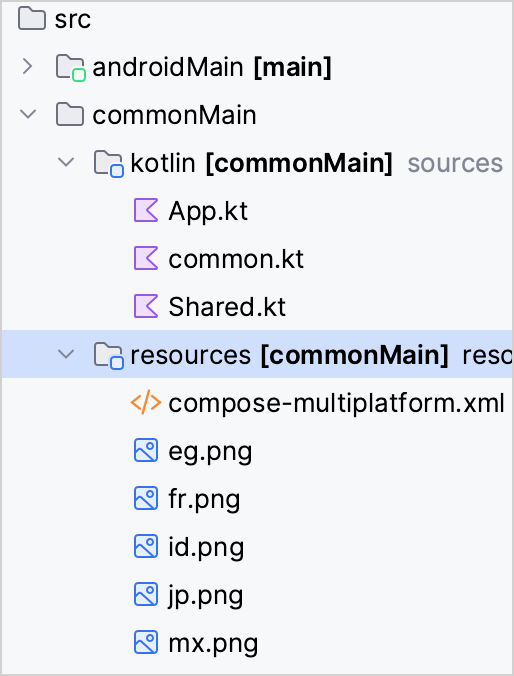
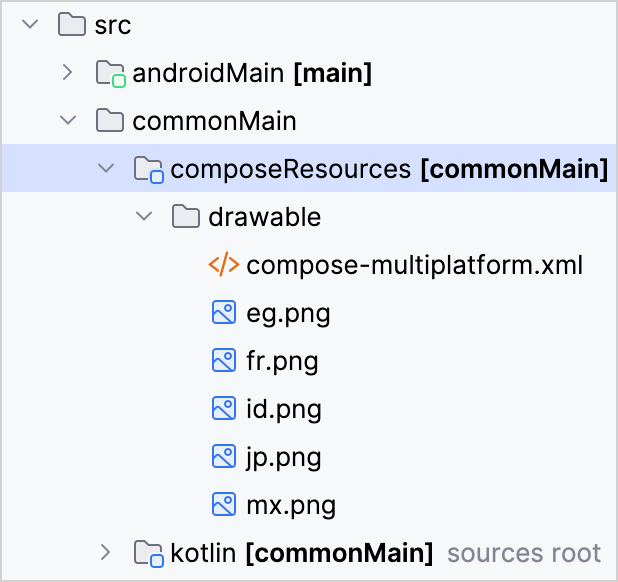
update: new resources API changes (#81)

diff --git a/topics/compose/compose-images-resources.md b/topics/compose/compose-images-resources.md
@@ -1,11 +1,7 @@
 [//]: # (title: Images and resources)
 
-> This page describes the new revamped version of the resource library available since Compose Multiplatform 1.6.0-beta01.
-> 
-{type="note"}
-
-Compose Multiplatform provides a special library and a Gradle plugin support for accessing resources in common code
-across all supported platforms. Resources are static content, such as images, fonts, and strings, that you can use from
+Compose Multiplatform provides a special library and Gradle plugin support for accessing resources in common code
+across all supported platforms. Resources are static content, such as images, fonts, and strings, which you can use from
 your application.
 
 > The library is [Experimental](supported-platforms.md#core-kotlin-multiplatform-technology-stability-levels).
@@ -15,8 +11,8 @@ your application.
 
 When working with resources in Compose Multiplatform, consider the current conditions:
 
-* Almost all resources are read synchronously in the caller thread. The only exceptions are raw files,
-  plus all the resources on the JS platform which are read asynchronously.
+* Almost all resources are read synchronously in the caller thread. The only exceptions are raw files
+  and all of the resources on the JS platform that are read asynchronously.
 * Reading big raw files, like long videos, as a stream is not supported yet. Use separate files on the user device and
   read them with the file system API, for example, the [kotlinx-io](https://github.com/Kotlin/kotlinx-io) library.
 * Multimodule projects are not supported yet. The JetBrains team is working on adding this functionality in future releases.
@@ -49,7 +45,7 @@ To access resources in your multiplatform projects:
 
    ![Compose resources project structure](compose-resources-structure.png){width=250}
 
-3. Organize the `composeResources` directory structure following these rules:
+3. Organize the `composeResources` directory structure according to these rules:
 
    * Images should be in the `drawable` directory.
    * Fonts should be in the `font` directory.
@@ -59,20 +55,20 @@ To access resources in your multiplatform projects:
 ## Qualifiers
 
 Sometimes, the same resource should be presented in different ways depending on the environment, such as locale,
-screen density, or an interface theme. For example, you might need to localize texts for different languages or adjust
+screen density, or interface theme. For example, you might need to localize texts for different languages or adjust
 images for the dark theme. For that, the library provides special qualifiers.
 
 All resource types (except for raw files in the `files` directory) support qualifiers. Apply qualifiers to directory
-names using a dash:
+names using a hyphen:
 
 ![Qualifiers in compose resources](compose-resources-qualifiers.png){width=250}
 
-The library supports (in the order of priority) [language](#language-and-regional-qualifiers), [theme](#theme-qualifier),
-and [density](#density-qualifier) qualifiers.
+The library supports (in the order of priority) the following qualifiers: [language](#language-and-regional-qualifiers),
+[theme](#theme-qualifier), and [density](#density-qualifier).
 
 * Different types of qualifiers can be applied together. For example, "drawable-en-rUS-mdpi-dark" is an image for the
   English language in the United States region, suitable for 160 DPI screens in the dark theme.
-* If a resource with the requested qualifier doesn't exist, a default resource without a qualifier is used instead.
+* If a resource with the requested qualifier doesn't exist, the default resource without a qualifier is used instead.
 
 ### Language and regional qualifiers
 
@@ -100,16 +96,16 @@ You can use the following density qualifiers:
 * "xxhdpi" − 480 DPI, 3x density
 * "xxxhdpi" − 640dpi, 4x density
 
-The resource is selected depending on a screen density defined in the system.
+The resource is selected depending on the screen density defined in the system.
 
 ## Resource usage
 
-After importing a project, a special `Res` class that provides access to resources is generated.
+After importing a project, a special `Res` class is generated which provides access to resources.
 To manually generate the `Res` class, run the `generateComposeResClass` Gradle task.
 
 ### Images
 
-You can access drawable resources as simple images, rasterized images, and XML vectors:
+You can access drawable resources as simple images, rasterized images, or XML vectors:
 
 * To access drawable resources as `Painter` images, use the `painterResource()` function:
 
@@ -117,11 +113,11 @@ You can access drawable resources as simple images, rasterized images, and XML v
   @Composable
   fun painterResource(resource: DrawableResource): Painter {...}
   ```
-    
+
   The `painterResource()` function takes a resource path and returns a `Painter` value. The function works synchronously
-  on all targets, except for web. For the web target, it returns an empty `Painter` for the first recomposition that is
+  on all targets except for web. For the web target, it returns an empty `Painter` for the first recomposition that is
   replaced with the loaded image in subsequent recompositions.
-    
+
   * `painterResource()` loads either a `BitmapPainter` for rasterized image formats, such as `.png`, `.jpg`, `.bmp`, `.webp`,
     or a `VectorPainter` for the Android XML vector drawable format.
   * XML vector drawables have the same format as [Android](https://developer.android.com/reference/android/graphics/drawable/VectorDrawable),
@@ -163,7 +159,7 @@ Store all string resources in the `strings.xml` file in the `composeResources/va
 
 A static accessor is generated for each item in the `strings.xml` file.
 
-To get string resources as a `String`:
+To get string resources as a `String`, use the following code:
 
 <tabs>
 <tab title= "From composable code">
@@ -186,7 +182,7 @@ Text(stringResource(Res.string.app_name))
 ```
 
 </tab>
-<tab title= "From a non-composable code">
+<tab title= "From non-composable code">
 
 ```kotlin
 suspend fun getString(resource: StringResource): String
@@ -208,8 +204,8 @@ coroutineScope.launch {
 </tabs>
 
 You can use special symbols in string resources:
- 
-* `\n` — for a new line 
+
+* `\n` — for a new line
 * `\t` — for a tab symbol
 * `\uXXXX` — for a specific Unicode character
 
@@ -220,7 +216,7 @@ Currently, arguments have basic support in string resources:
 ```XML
 <!-- strings.xml -->
 <resources>
-	<string name="str_template">Hello, %1$s! You have %2$d new messages.</string>
+    <string name="str_template">Hello, %1$s! You have %2$d new messages.</string>
 </resources>
 ```
 
@@ -262,7 +258,7 @@ suspend fun readBytes(path: String): ByteArray
 
 You can place raw files in the `composeResources/files` directory and create any hierarchy inside it.
 
-For example, to access raw files:
+For example, to access raw files, use the following code:
 
 <tabs>
 <tab title= "From composable code">
@@ -278,7 +274,7 @@ Text(bytes.decodeToString())
 ```
 
 </tab>
-<tab title= "From a non-composable code">
+<tab title= "From non-composable code">
 
 ```kotlin
 coroutineScope.launch {
@@ -291,7 +287,7 @@ coroutineScope.launch {
 
 ### Remote files
 
-Only files that are a part of the application are considered as resources.
+Only files that are part of the application are considered resources.
 
 You can also load remote files from the internet using their URL. To load remote files, use special libraries:
 

diff --git a/topics/compose-onboard/compose-multiplatform-new-project.md b/topics/compose-onboard/compose-multiplatform-new-project.md
@@ -28,24 +28,24 @@ To get started, implement a new `App` composable:
    composable:
 
    ```kotlin
-     @Composable
-     fun App() {
-         MaterialTheme {
-             var timeAtLocation by remember { mutableStateOf("No location selected") }
-             Column {
-                 Text(timeAtLocation)
-                 Button(onClick = { timeAtLocation = "13:30" }) {
-                     Text("Show Time At Location")
-                 }
-             }
-         }
-     }
-     ```
+   @Composable
+   fun App() {
+       MaterialTheme {
+           var timeAtLocation by remember { mutableStateOf("No location selected") }
+           Column {
+               Text(timeAtLocation)
+               Button(onClick = { timeAtLocation = "13:30" }) { 
+                   Text("Show Time At Location")
+               }
+           }
+       }
+   }
+   ```
 
-     * The layout is a column containing two composables. The first is a `Text` composable, and the second is a `Button`.
-     * The two composables are linked by a single shared state, namely the `timeAtLocation` property. The `Text`
-       composable is an observer of this state.
-     * The `Button` composable changes the state using the `onClick` event handler.
+   * The layout is a column containing two composables. The first is a `Text` composable, and the second is a `Button`.
+   * The two composables are linked by a single shared state, namely the `timeAtLocation` property. The `Text`
+     composable is an observer of this state.
+   * The `Button` composable changes the state using the `onClick` event handler.
 
 2. Run the application on Android and iOS:
 
@@ -209,6 +209,10 @@ time message could be rendered more prominently.
 
    ![Improved style of the Compose Multiplatform app on desktop](first-compose-project-on-desktop-7.png){width=350}
 
+> You can find this state of the project in our [GitHub repository](https://github.com/kotlin-hands-on/get-started-with-cm/tree/main/ComposeDemoStage2).
+>
+{type="tip"}
+
 ## Refactor the design
 
 The application works, but it's susceptible to users' typos. For example, if the user enters "Franse" instead of "France",
@@ -290,12 +294,16 @@ list.
 
    ![The country list in the Compose Multiplatform app on desktop](first-compose-project-on-desktop-8.png){width=350}
 
+> You can find this state of the project in our [GitHub repository](https://github.com/kotlin-hands-on/get-started-with-cm/tree/main/ComposeDemoStage3).
+>
+{type="tip"}
+
 > You can further improve the design using a dependency injection framework, such as [Koin](https://insert-koin.io/),
 > to build and inject the table of locations. If the data is stored externally,
 > you can use the [Ktor](https://ktor.io/docs/create-client.html) library to fetch it over the network or
 > the [SQLDelight](https://github.com/cashapp/sqldelight) library to fetch it from a database.
 >
-{type="tip"}
+{type="note"}
 
 ## Introduce images
 
@@ -314,44 +322,41 @@ code to load and display them:
    are [Japan](https://flagcdn.com/w320/jp.png), [France](https://flagcdn.com/w320/fr.png), [Mexico](https://flagcdn.com/w320/mx.png), [Indonesia](https://flagcdn.com/w320/id.png),
    and [Egypt](https://flagcdn.com/w320/eg.png).
 
-2. Move the images to `src/commonMain/resources` so that the same flags are available on all platforms:
+2. Move the images to the `composeApp/src/commonMain/composeResources/drawable` directory so that the same flags are available on all platforms:
 
    ![Compose Multiplatform resources project structure](compose-resources-project-structure.png){width=300}
-
-   > Each platform-specific source set can also have its own resources folder. This allows you to use different images on different
-   > platforms, if needed.
-   >
-   {type="tip"}
 
 3. Change the codebase to support images:
 
     ```kotlin
-    data class Country(val name: String, val zone: TimeZone, val image: String)
-    
+    @OptIn(ExperimentalResourceApi::class)
+    data class Country(val name: String, val zone: TimeZone, val image: DrawableResource)
+
     fun currentTimeAt(location: String, zone: TimeZone): String {
         fun LocalTime.formatted() = "$hour:$minute:$second"
-    
+
         val time = Clock.System.now()
         val localTime = time.toLocalDateTime(zone).time
-    
+
         return "The time in $location is ${localTime.formatted()}"
     }
-    
-    fun countries() = listOf(
-        Country("Japan", TimeZone.of("Asia/Tokyo"), "jp.png"),
-        Country("France", TimeZone.of("Europe/Paris"), "fr.png"),
-        Country("Mexico", TimeZone.of("America/Mexico_City"), "mx.png"),
-        Country("Indonesia", TimeZone.of("Asia/Jakarta"), "id.png"),
-        Country("Egypt", TimeZone.of("Africa/Cairo"), "eg.png")
+
+    @OptIn(ExperimentalResourceApi::class)
+    val defaultCountries = listOf(
+        Country("Japan", TimeZone.of("Asia/Tokyo"), Res.drawable.jp),
+        Country("France", TimeZone.of("Europe/Paris"), Res.drawable.fr),
+        Country("Mexico", TimeZone.of("America/Mexico_City"), Res.drawable.mx),
+        Country("Indonesia", TimeZone.of("Asia/Jakarta"), Res.drawable.id),
+        Country("Egypt", TimeZone.of("Africa/Cairo"), Res.drawable.eg)
     )
-    
+
     @OptIn(ExperimentalResourceApi::class)
     @Composable
-    fun App(countries: List<Country> = countries()) {
+    fun App(countries: List<Country> = defaultCountries) {
         MaterialTheme {
             var showCountries by remember { mutableStateOf(false) }
             var timeAtLocation by remember { mutableStateOf("No location selected") }
-    
+
             Column(modifier = Modifier.padding(20.dp)) {
                 Text(
                     timeAtLocation,
@@ -383,7 +388,7 @@ code to load and display them:
                         }
                     }
                 }
-    
+
                 Button(modifier = Modifier.padding(start = 20.dp, top = 10.dp),
                     onClick = { showCountries = !showCountries }) {
                     Text("Select Location")
@@ -404,6 +409,10 @@ code to load and display them:
    ![The country flags in the Compose Multiplatform app on Android and iOS](first-compose-project-on-android-ios-8.png){width=500}
 
    ![The country flags in the Compose Multiplatform app on desktop](first-compose-project-on-desktop-9.png){width=350}
+
+> You can find this state of the project in our [GitHub repository](https://github.com/kotlin-hands-on/get-started-with-cm/tree/main/ComposeDemoStage4).
+>
+{type="tip"}
 
 ## What's next
 

diff --git a/topics/compose-onboard/compose-multiplatform-modify-project.md b/topics/compose-onboard/compose-multiplatform-modify-project.md
@@ -80,7 +80,7 @@ To use this library:
                 }
                 AnimatedVisibility(showContent) {
                     Column(Modifier.fillMaxWidth(), horizontalAlignment = Alignment.CenterHorizontally) {
-                        Image(painterResource("compose-multiplatform.xml"), null)
+                        Image(painterResource(Res.drawable.compose_multiplatform), null)
                         Text("Compose: $greeting")
                     }
                 }
@@ -99,6 +99,10 @@ and desktop:
 ![First Compose Multiplatform app on Android and iOS](first-compose-project-on-android-ios-2.png){width=500}
 
 ![First Compose Multiplatform app on desktop](first-compose-project-on-desktop-2.png){width=400}
+
+> You can find this state of the project in our [GitHub repository](https://github.com/kotlin-hands-on/get-started-with-cm/tree/main/ComposeDemoStage1).
+>
+{type="tip"}
 
 ## Next step
 

diff --git a/topics/tools/fleet.md b/topics/tools/fleet.md
@@ -192,7 +192,7 @@ Since the `ContentView.swift` file is already open, you can explore Fleet suppor
                }
                AnimatedVisibility(showContent) {
                    Column(Modifier.fillMaxWidth(), horizontalAlignment = Alignment.CenterHorizontally) {
-                       Image(painterResource("compose-multiplatform.xml"), null)
+                       Image(painterResource(Res.drawable.compose_multiplatform), null)
                        Text("Compose: $greeting")
                    }
                }

diff --git a/topics/compose-onboard/compose-multiplatform-explore-composables.md b/topics/compose-onboard/compose-multiplatform-explore-composables.md
@@ -30,7 +30,7 @@ fun App() {
             }
             AnimatedVisibility(showContent) {
                 Column(Modifier.fillMaxWidth(), horizontalAlignment = Alignment.CenterHorizontally) {
-                    Image(painterResource("compose-multiplatform.xml"), null)
+                    Image(painterResource(Res.drawable.compose_multiplatform), null)
                     Text("Compose: $greeting")
                 }
             }
